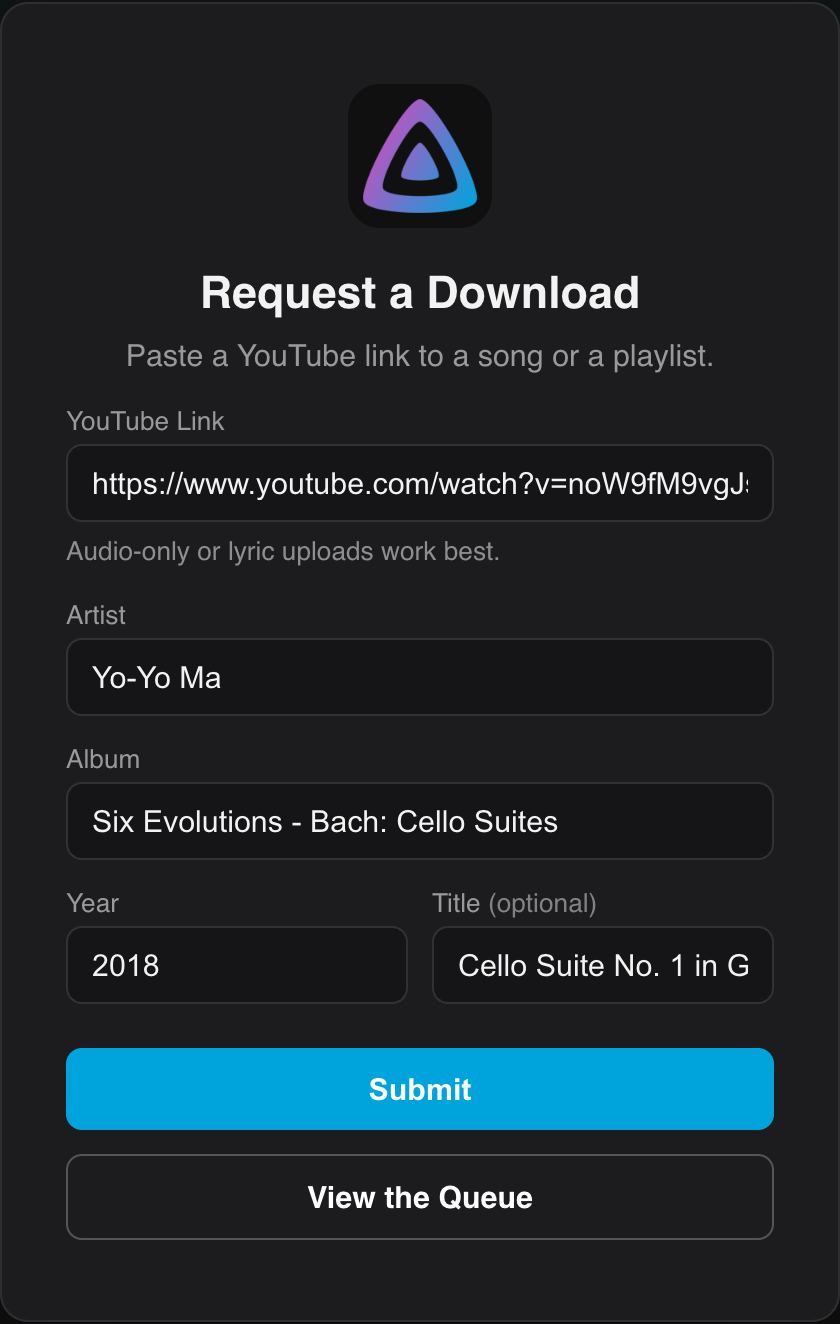
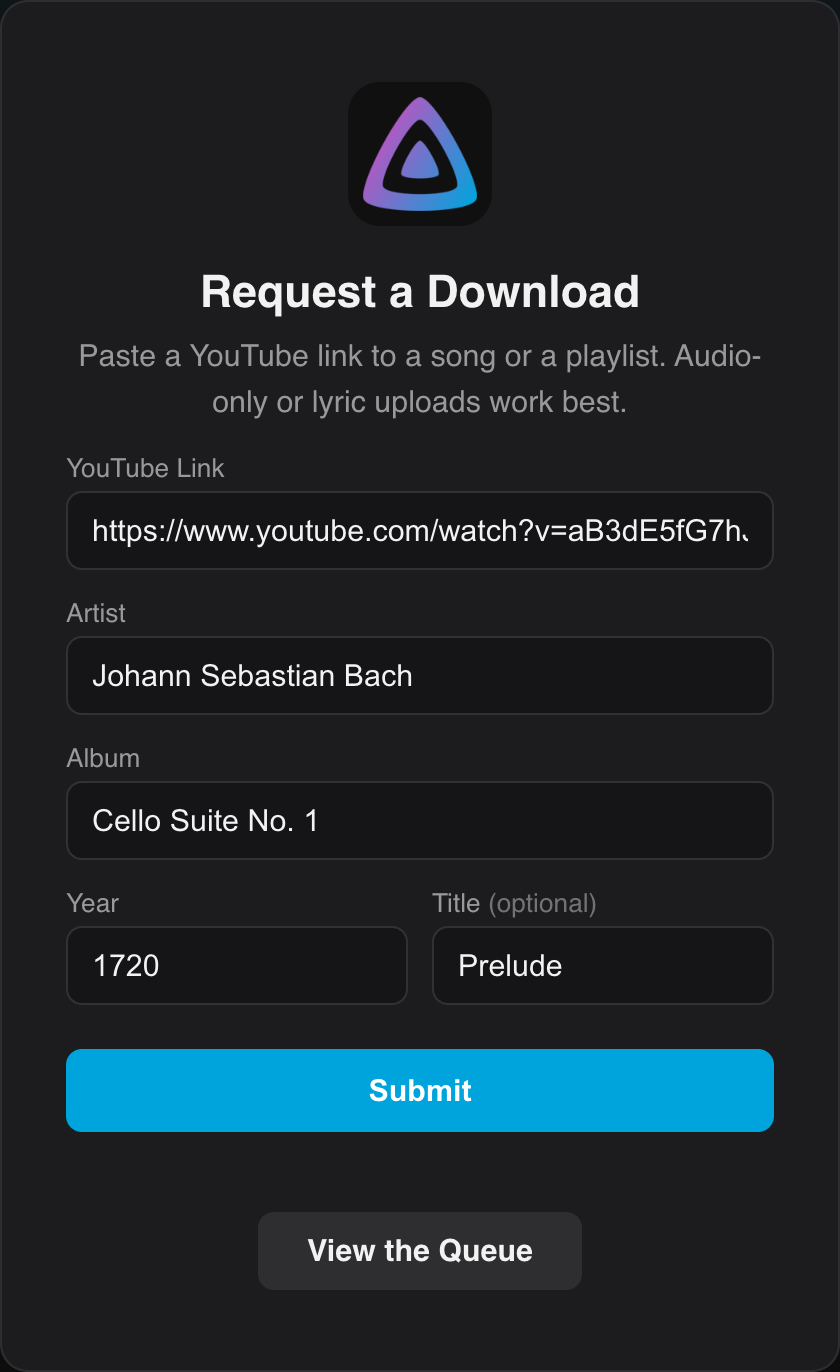
Document the current pages and retake the screenshots

Changed region(s): [[0.0619, 0.0619, 0.9286, 0.8671], [0.0, 0.9909, 0.9905, 1.0], [0.3714, 0.898, 0.65, 0.929]]

diff --git a/docs/Download.md b/docs/Download.md
@@ -6,32 +6,42 @@ Queue up audio for download.
 
 ## Queue a YouTube Link
 
-1. Paste a YouTube video or playlist URL into the input field.
-2. Click **Queue** to add it to the download queue.
-3. From the queue, select the items you want to download and click **Download**, or remove any you do not want with **Delete**. The count cards above the queue show how many items have each status, and selecting a card shows only those items.
+1. Choose **YouTube** on the Download tab.
+2. Paste a video or playlist link into **YouTube URL**.
+3. Click **Queue** to add it to the queue. A playlist link adds each of its videos.
 
 Only `youtube.com`, `www.youtube.com`, `m.youtube.com`, `music.youtube.com` and `youtu.be` links are accepted, and a link containing spaces or quotes is refused.
 
+## The Queue
+
+The **Queue** under the source cards lists every song that is not yet imported. Each song is a card with a music note, its title, and a second line with its source and YouTube link. A playlist track shows its artist before the title, and "YouTube match is found when downloaded" until its upload is matched. Its status badge and the **Change Link** button sit at the top right of the card.
+
+* The status cards above the queue are **Queued**, **Downloading**, **Downloaded** and **Error**, each with its count. Click a card to show only songs with that status, and click it again to show them all. Several cards can be on at once.
+* **Search queue** finds songs by title, artist or link.
+* Select songs with their checkboxes, or with **Select all**, then click **Download** to download them or **Delete** to remove them. A failed song downloads again when you select it and click **Download**.
+* **Refresh** reads the queue again. The queue also refreshes every few seconds while songs download.
+* A failed song shows its reason in red on its card. A song worth checking shows a **Check Match** badge and a note, and a song that replaces a library single says "Replaces the single in the library when imported."
+
 ## Cancel Downloads
 
-While downloads are running, **Cancel Downloads** appears beside the queue's search. It stops yt-dlp, deletes the partial files of the song it was downloading and puts that song back in the queue. Songs that had not started stay queued, so you can start them again later. Use it, for example, to stop a large playlist so you can run **Update yt-dlp** in [Settings](Settings.md).
+While downloads are running, **Cancel Downloads** appears beside **Search queue**. It stops yt-dlp, deletes the partial files of the song it was downloading and puts that song back in the queue. Songs that had not started stay queued, so you can start them again later. Use it, for example, to stop a large playlist so you can run **Update yt-dlp** in [Settings](Settings.md).
 
 ## Import a Playlist From Another Service
 
-1. Choose **Apple Music** or **Spotify** on the Download tab, then export:
-    * **Apple Music:** for one playlist, select it and choose **File → Library → Export Playlist…** (Unicode Text or XML). For your whole library, choose **File → Library → Export Library…**, which lets you pick any of your playlists, or the entire library, in the next step.
-    * **Spotify:** use [Exportify](https://github.com/watsonbox/exportify) to export one playlist as a CSV file, or all of them as a ZIP to pick from in the next step. Playlist names come from the file names. Liked Songs is offered like Apple Music's entire library and does not become a playlist. Spotify's own album cover is embedded, the genre (which Spotify does not export) comes from the Apple Music lookup, and each track's ISRC is used to find its official YouTube upload.
-2. Pick the **Playlist Owner**. Each imported playlist becomes a private Jellyfin playlist with the same name, owned by that user (choose "Do not create playlists" to only download). Then, under **Playlist Export**, choose the file and click **Queue Playlist**. For a library export, turn off any playlists you do not want and click **Queue Selected**. A track in more than one selected playlist is queued once. Every track is added to the queue with its title, artist, album, genre, composer, year and track and disc numbers from the export (and its album artist, from a library or XML export).
+1. Choose **Apple Music** or **Spotify** on the Download tab, then export.
+    * **Apple Music.** For one playlist, select it in the Music app and choose **File > Library > Export Playlist**, as Unicode Text or XML. For your whole library, choose **File > Library > Export Library**, which lets you pick any of your playlists, or the entire library, in the next step.
+    * **Spotify.** Use [Exportify](https://github.com/watsonbox/exportify) to export one playlist as a CSV file, or all of them as a ZIP to pick from in the next step. Playlist names come from the file names. Liked Songs is offered like Apple Music's entire library and does not become a playlist. Spotify's own album cover is embedded, the genre (which Spotify does not export) comes from the Apple Music lookup, and each track's ISRC is used to find its official YouTube upload.
+2. Pick the **Playlist Owner**. Each imported playlist becomes a private Jellyfin playlist with the same name, owned by that user (choose "Do not create playlists" to only download). Then drop the file on **Playlist Export**, or click it to choose the file, and click **Queue Playlist**. For a library export, turn off any playlists you do not want and click **Queue Selected**. A track in more than one selected playlist is queued once. Every track is added to the queue with its title, artist, album, genre, composer, year and track and disc numbers from the export (and its album artist, from a library or XML export).
     * Album names are cleaned so every edition groups as one album. Labels like "(Deluxe Edition)", "(Remastered)", "(Bonus Track Version)", " - Single" and " - EP" are removed, while ones naming a different recording ("Live", "Orchestral Version") are kept. "feat." artists are moved out of titles and tagged as featured artists.
-    * Nothing is queued twice. Songs already in any of your Jellyfin music libraries or the queue are skipped, and the playlist uses your existing copy. Classical movements count when one side names only the movement: an export's "Suite bergamasque, L. 75: III. Clair de lune" uses your "Clair de lune" by the same artist, and the other way round, as long as the lengths agree and the movement isn't just a tempo like "Allegro". A song appearing more than once keeps its best version (album, then compilation, then EP, then single). If your library only has a song's single and the import brings its album version, the album version is queued and the single's file is deleted once it is imported.
+    * Nothing is queued twice. Songs already in any of your Jellyfin music libraries or the queue are skipped, and the playlist uses your existing copy. Classical movements count when one side names only the movement. An export's "Suite bergamasque, L. 75: III. Clair de lune" uses your "Clair de lune" by the same artist, and the other way round, as long as the lengths agree and the movement is not just a tempo like "Allegro". A song appearing more than once keeps its best version (album, then compilation, then EP, then single). If your library only has a song's single and the import brings its album version, the album version is queued and the single's file is deleted once it is imported.
     * New tracks from an album you already have reuse that album's name and year, so they land in its existing folder.
     * The owner's playlist fills in as songs reach the library. Songs you already have are added straight away, the rest once they are downloaded, imported and scanned. If the owner already has a playlist with that name, only the songs it is missing are added, and its songs are put in the export's order (songs the owner added themselves keep their place). Each import is one time: it finishes once every song is in, or once a song's download fails or is removed. Importing again later simply adds what is new and reorders.
-    * **Playlist Imports in Progress** lists each playlist being filled, with how many of its songs are in so far. **Add Library Songs** adds songs that are already in the library without waiting for a scan, and the stop button on a playlist stops filling it while keeping the Jellyfin playlist and its songs.
+    * **Playlist Imports in Progress** lists each playlist being filled, with its owner, how many of its songs are in so far, and how many still wait for download or import. **Add Library Songs** adds songs that are already in the library without waiting for a scan. **Stop**, the button on a playlist's card, stops filling it and keeps the Jellyfin playlist and its songs.
 3. Download as usual. Each track is matched to a YouTube upload when it downloads, preferring the artist's own channel and an upload close to the track's length. When the regular search only finds music videos of the wrong length (or nothing), YouTube Music's song results are checked too, under the same rules. An upload from another channel is only accepted when its title names the artist, so another performer's recording of the same piece is not picked. For long classical titles ("Suite bergamasque, L. 75: III. Clair de lune"), the movement name is enough to match. A match worth checking (a length difference over 3 seconds, or an upload not from the artist) is marked **Check Match** on its queue row with a note, and a track with no acceptable upload is marked as an error.
-4. To fix a wrong or failed match, click the link button (**Change Link**) in the top corner of its queue row, paste the right YouTube link and click **Use Link**. The track downloads again from that link and keeps its title, artist, album and other details, and its place in any playlist import.
+4. To fix a wrong or failed match, click **Change Link**, the link button at the top right of its card. Paste the right YouTube link into **YouTube URL** and click **Use Link**. The track downloads again from that link and keeps its title, artist, album and other details, and its place in any playlist import. **Change Link** is greyed out while the song downloads.
 
 ## Replace a Song Already in Your Library
 
-If a song reached your library with the wrong audio, choose **Replace a Song** on the Download tab, search for the song under **Library Song** and click it, paste the right YouTube link and click **Queue Replacement**. The new audio downloads with the song's own tags and cover, and importing it from the [Import](Import.md) tab overwrites the song's file in place, so it keeps its place in the library and in playlists.
+If a song reached your library with the wrong audio, choose **Replace a Song** on the Download tab, search for the song under **Library Song** and select it, paste the right YouTube link into **YouTube URL** and click **Queue Replacement**. The new audio downloads with the song's own tags and cover, and importing it from the [Import](Import.md) tab overwrites the song's file in place, so it keeps its place in the library and in playlists.
 
 Next: [Import](Import.md).

diff --git a/docs/Settings.md b/docs/Settings.md
@@ -4,9 +4,11 @@ Configure the plugin before your first download.
 
 ![Settings](screenshots/Settings.png)
 
+Each section opens with a click on its title and saves on its own. The full width **Save** at the end of a section saves only that section. The line above it says when the section has unsaved changes, and whether the save worked.
+
 ## Music Library
 
-Select your target Jellyfin music library and confirm the library path. This is the directory where imported files will be placed. Files are organized as:
+Choose your Jellyfin music library under **Target Library**. **Library Path** fills in with that library's first folder, and you can change it. Imported files are placed in this folder, organized as follows.
 
 ```
 <library path>/Artist/Album (Year)/Song.ext
@@ -17,7 +19,7 @@ Select your target Jellyfin music library and confirm the library path. This is 
 
 ## Audio Format
 
-Choose your preferred download format:
+Choose the format songs download as under **Download Format**.
 
 | Format | Notes |
 | :--- | :--- |
@@ -36,25 +38,39 @@ Choose your preferred download format:
 
 By default, downloaded files are cached in the Jellyfin data directory. Override this if you need a specific staging location.
 
+## Album Art
+
+These settings shape the cover the wand on the [Import](Import.md) tab generates for an album with no art.
+
+* The text list sets which lines the cover shows, top to bottom. Turn **Album Name**, **Artist Name** and **Year** on or off, and move a line up or down with the arrows beside it. Only **Album Name** is on by default.
+* **Colors From** sets what the colors are drawn from, **Album**, **Album and year**, or **Album artist and year**. The same values always give the same colors.
+
 ## Approved Users
 
-By default, only users with access to the Admin Dashboard can download and import tracks. Enabling a user here allows select users to download tracks into your queue from the Download page at `/YouTube/Download`, which you can then approve and import into your library. They cannot import themselves. See [Approved User Downloads](ApprovedUserDownloads.md). Any signed in user can follow the queue at `/YouTube/Queue`, as described in [Public Queue](PublicQueue.md).
+By default, only users with access to the Admin Dashboard can download and import tracks. Turn on a user here to let them queue downloads into your queue from the user page, which you can then import into your library. They cannot import themselves. Administrators are not listed, since they can always use the page. See [Approved User Downloads](ApprovedUserDownloads.md).
+
+The Settings tab shows no links to the user pages. Share their addresses yourself. Each is your server address followed by its path.
+
+| Page | Address | Who can use it |
+| :--- | :--- | :--- |
+| User page | `https://jellyfin.example.com/YouTube/Download` | Approved users and administrators |
+| [Public Queue](PublicQueue.md) | `https://jellyfin.example.com/YouTube/Queue` | Any signed in user |
 
 **Playlist Limit** caps how many videos an approved user can queue from one playlist link (200 by default). A larger playlist is refused with a message asking them to have an administrator add it. Set it to 0 for no limit. Administrators are never limited.
 
 ## yt-dlp
 
-The plugin downloads [yt-dlp](https://github.com/yt-dlp/yt-dlp) and the [Deno](https://deno.com) JavaScript runtime that yt-dlp needs for YouTube into the plugin folder the first time they are needed, from their official GitHub releases. Both are kept up to date: every 12 hours, before a download starts, the plugin checks for newer releases and replaces its own copies. Every file is checked against the SHA-256 checksum published with its release (yt-dlp's `SHA2-256SUMS`, Deno's `.sha256sum`) before it is made executable; a file that does not match is deleted and never run, and the error says so.
+The plugin downloads [yt-dlp](https://github.com/yt-dlp/yt-dlp) and the [Deno](https://deno.com) JavaScript runtime that yt-dlp needs for YouTube into the plugin folder the first time they are needed, from their official GitHub releases. Both are kept up to date. Every 12 hours, before a download starts, the plugin checks for newer releases and replaces its own copies. Every file is checked against the SHA-256 checksum published with its release before it is made executable, `SHA2-256SUMS` for yt-dlp and `.sha256sum` for Deno. A file that does not match is deleted and never run, and the error says so.
 
 * **yt-dlp Path Override.** Set an absolute path (for example `/opt/homebrew/bin/yt-dlp`) to use your own yt-dlp instead. The plugin then never downloads or replaces yt-dlp, and **Update yt-dlp** runs that binary's own updater (`yt-dlp -U`). A system yt-dlp is otherwise only used when the plugin's own copy cannot be downloaded. A Deno installed on the system is used when the plugin has no copy of its own, and is never updated by the plugin.
-* **Update yt-dlp.** Updates yt-dlp and the plugin's Deno right away instead of waiting for the next check. It waits for running downloads; cancel them on the [Download](Download.md) tab to update now.
+* **Update yt-dlp.** Updates yt-dlp and the plugin's Deno right away instead of waiting for the next check. It sits above the section's **Save**, and its result shows on the line above **Save**. It waits for running downloads, so cancel them on the [Download](Download.md) tab to update now.
 
 ## Reset
 
-Both actions stop any running downloads first and cannot be undone.
+Both actions stop any running downloads first and cannot be undone. Each asks you to confirm first.
 
-* **Reset Queue** clears the download queue and deletes the cached files of every queued, failed and downloaded item that has not been imported.
-* **Reset Cache** deletes every file in the download cache and clears the download queue.
+* **Reset Queue**, with its **Reset** button, clears the download queue and deletes the cached files of every queued, failed and downloaded item that has not been imported.
+* **Reset Cache**, with its **Reset All** button, deletes every file in the download cache and clears the download queue.
 
 Files left in the cache by an interrupted download (for example when the server stopped mid-download) are removed automatically the next time the server starts, and songs that were downloading go back to the queue.
 

diff --git a/skills/glossary.md b/skills/glossary.md
@@ -24,7 +24,8 @@ The agreed name for every concept in this plugin. The UI, the docs, messages, an
 | Term | Meaning | In Code | Not |
 | :--- | :--- | :--- | :--- |
 | Queue | The songs waiting to download, downloading, downloaded, or failed, on the **Download** tab | `QueueDatabase` | List, backlog |
-| Queue item | One song in the queue | `QueueItem` | Job, task, entry |
+| Queue item | One song in the queue, drawn as a media card with its status and **Change Link** | `QueueItem`, `renderQueueRow` | Job, task, entry |
+| Status cards | The cards above the queue, one per status with its count, that each show only songs with that status | `QUEUE_STATES` | Count cards, tiles, filters |
 | Download | Turns a queued song into an audio file in the download cache with yt-dlp | `DownloadService` | Fetch, rip |
 | Match | The YouTube upload a playlist track downloads from, found when it downloads | `YouTubeMatcher` | Hit, result |
 | Check Match | The badge on a queue item whose match is worth a look, with its note | `MatchNote` | Warning, low confidence |
@@ -42,6 +43,15 @@ The agreed name for every concept in this plugin. The UI, the docs, messages, an
 | Imported | Filed in the library, and shown on neither tab | `QueueStatus.Imported` |
 | Error | Failed, with the reason on the row | `QueueStatus.Error` |
 
+The [Public Queue](../docs/PublicQueue.md) names each status for any signed in user. Its pills read **Waiting**, **Downloading**, **Downloaded**, and **Failed**.
+
+| Status | Public Queue badge | In Code |
+| :--- | :--- | :--- |
+| Queued | Waiting to download | `DownloadService.GetPublicQueue` |
+| Downloading | Downloading | `DownloadService.GetPublicQueue` |
+| Downloaded | Downloaded, not yet added | `DownloadService.GetPublicQueue` |
+| Error | Could not be downloaded | `DownloadService.GetPublicQueue` |
+
 ## Importing
 
 | Term | Meaning | In Code | Not |
@@ -53,6 +63,7 @@ The agreed name for every concept in this plugin. The UI, the docs, messages, an
 | Featured Artists | Artists credited with "feat." on a song | `FeaturedArtist` | Feat. Artists, guests |
 | Cover | The picture embedded in a file | `HasCover`, `Downloads/{id}/Cover` | Artwork, thumbnail. **Album Art** names the Settings section for generated covers |
 | Generate Cover | The wand that draws a cover from the album's text and colors | | Auto cover, placeholder art |
+| Set Cover | The button under a file's cover that picks a picture, reading **Replace** once the file has one | `createCoverPicker` | Upload art, change image |
 | In Library | The badge on a downloaded file whose song the library already has | `InLibrary` | Duplicate, exists |
 | Duplicate | A file whose name an import would reuse in the library | `ReplaceDuplicates` | Clash, conflict |
 | Catalog lookup | Fills a song's details from Apple's public catalog | `AppleCatalogClient`, `CatalogMatcher` | Metadata provider, scrape |
@@ -72,6 +83,7 @@ The agreed name for every concept in this plugin. The UI, the docs, messages, an
 | Target Library | The music library imports are filed into | `MusicLibraryId` | Destination library |
 | Library Path | The folder in that library imports are filed under | `MusicLibraryPath` | Root, output folder |
 | Download Format | Opus, MP3, or M4A | `AudioFormat` | Codec, file type |
+| Album Art | The Settings section that sets a generated cover's text lines and **Colors From** | `GeneratedCoverText`, `GeneratedCoverTextOrder`, `GeneratedCoverColors` | Cover settings |
 | Download cache | The folder downloaded files wait in until they are imported | `QueueDatabaseProvider.GetAudioCacheDirectory` | Staging, temp |
 | Cache Directory Override | A folder for the download cache instead of the Jellyfin data folder | `CacheDirectoryOverride` | Cache path |
 | Approved users | Users who may queue downloads from the user page, set in the Approved Users section of Settings | `ApprovedUserIds` | Allowed users, whitelist |
@@ -81,6 +93,7 @@ The agreed name for every concept in this plugin. The UI, the docs, messages, an
 | yt-dlp | The downloader the plugin fetches and keeps up to date | `ToolDownloads`, `YtDlpRunner` | youtube-dl, the tool |
 | Deno | The JavaScript runtime yt-dlp needs for YouTube | `ToolDownloads` | Node |
 | yt-dlp Path Override | The user's own yt-dlp, used instead of the plugin's copy | `YtDlpPath` | Custom binary |
+| Update yt-dlp | Updates yt-dlp and Deno now instead of at the next check | `POST UpdateYtDlp` | Upgrade, refresh tools |
 
 ## Housekeeping
 

diff --git a/docs/Import.md b/docs/Import.md
@@ -6,12 +6,18 @@ Tag your downloaded files and bring them into your library.
 
 ## Tag and Import
 
-1. Each downloaded file has its own panel. Its header shows the title, the file size, and the save and wand buttons, and the cover sits beside the fields for title, track, artist, album artist, featured artists, album, genre, and year. Songs your library already has are marked **In Library** in the header, so you can skip a second copy.
-2. To apply the same metadata to multiple files at once, fill in the bulk fields at the top and click **Apply to Selected**.
-3. To listen to a file before you tag it, click the play button across the bottom of its panel. The seek bar and the time sit beside it, and starting one file pauses any other.
-4. To add or replace cover art, click **Set Cover** or **Replace** under a file's cover, or drop a picture on it. To give several files the same cover, choose it under **Cover** in Bulk Updates, select the files, and click **Set Cover on Selected**. Pictures are cropped to a centered square of at most 1200 pixels. Choosing an album your library already has takes that album's cover. For an album with no art, click the wand in the panel's header to generate a cover. It is a soft blend of three colors drawn from the album name, with the name in the middle.
-5. Save each file's changes with the save button in its header before you import. The button turns orange while a file has unsaved changes.
-6. Select the files you want to import and click **Import**.
+1. Each downloaded file has its own panel.
+    * The header holds the file's checkbox and title, then its size, an **In Library** badge when your library already has the song, the wand that generates a cover, and the save button.
+    * The cover sits at the left, with **Set Cover**, or **Replace** once the file has a cover, under it.
+    * The fields sit beside the cover in three rows. **Title** and **Track**, then **Artist**, **Album Artist** and **Featured Artists**, then **Album**, **Genre** and **Year**. **Artist** and **Album** suggest names already in your library as you type.
+    * The player runs across the full width at the bottom of the panel.
+    * On a tablet the cover moves above the fields, and on a phone each field takes its own line.
+2. To listen to a file before you tag it, click the play button in its player. The seek bar and the time sit beside it, and starting one file pauses any other.
+3. To apply the same details to several files at once, fill in the fields under **Bulk Updates**, select the files, and click **Apply to Selected**.
+4. To add or replace a file's cover, click **Set Cover** or **Replace** under it, or drop a picture on it. A cover can be replaced but not removed. To give several files the same cover, choose it under **Cover** in **Bulk Updates**, select the files, and click **Set Cover on Selected**. Pictures are cropped to a centered square of at most 1200 pixels. Choosing an album your library already has takes that album's cover.
+5. For an album with no art, click the wand in the panel's header to generate a cover. It is a soft blend of three colors drawn from the album name, with the name in the middle. **Album Art** in [Settings](Settings.md#album-art) sets which text it shows and what its colors are drawn from.
+6. Save each file's changes with the save button in its header before you import. The button turns orange while a file has unsaved changes.
+7. Select the files you want to import, with their checkboxes or **Select all**, and click **Import**. **Delete** deletes the selected files from the download cache after you confirm, and **Refresh** reads the list again.
 
 ## Where Files Go
 

diff --git a/docs/ApprovedUserDownloads.md b/docs/ApprovedUserDownloads.md
@@ -6,10 +6,15 @@ Let trusted users queue downloads without giving them admin access.
 
 You can allow specific Jellyfin users to submit download links from a simple page, without access to the plugin's admin tabs or the import step.
 
-1. In [Settings](Settings.md), open the **Approved Users** section, select the users you want to allow, and click **Save**.
-2. Share the user page with them. It is at `/YouTube/Download` after your server address, such as `https://jellyfin.example.com/YouTube/Download`. Approved users sign in to Jellyfin first, and administrators can always use it.
-3. They paste a YouTube link, fill in artist, album, year, and title, and submit it. Artist and album suggest names already in your library as they type. The download then runs on the server and lands in your queue. **View the Queue** opens the [Public Queue](PublicQueue.md).
+1. In [Settings](Settings.md#approved-users), open the **Approved Users** section, turn on the users you want to allow, and click **Save**.
+2. Share the user page with them. The Settings tab shows no link to it. It is at `/YouTube/Download` after your server address, such as `https://jellyfin.example.com/YouTube/Download`. Approved users sign in to Jellyfin first, and administrators can always use it.
+3. On **Request a Download**, they paste a link into **YouTube Link** and fill in **Artist**, **Album** and **Year**. **Artist** and **Album** suggest names already in your library as they type. **Title** is optional and comes from the video when it is empty. A playlist link turns **Title** off, since each video keeps its own title.
+4. They click **Submit**. The download starts on the server and the song lands in your queue, ready to import.
 
-A playlist link queues each of its videos, up to the **Playlist Limit** set in [Settings](Settings.md) (200 by default). A larger playlist is refused rather than cut short, so the user can ask an administrator to add it.
+The line under **Submit** says what happened. "Queued 1 track for download." confirms a request. A problem shows in red on the same line, such as "Add the YouTube link, artist, album and year." when a field is empty, or the server's reason when it refuses the link.
 
-Approved users can only submit links. They cannot import into the library, and they never see the admin tabs. The page is reachable by its URL, but the submit endpoint checks approval against the signed in Jellyfin account on the server, so an unapproved or signed out visitor cannot queue anything.
+**View the Queue**, the secondary button at the bottom of the page, opens the [Public Queue](PublicQueue.md).
+
+A playlist link queues each of its videos, up to the **Playlist Limit** set in [Settings](Settings.md#approved-users) (200 by default). A larger playlist is refused rather than cut short, so the user can ask an administrator to add it.
+
+Approved users can only submit links. They cannot import into the library, and they never see the admin tabs. The page is reachable by its address, but the submit endpoint checks approval against the signed in Jellyfin account on the server, so an unapproved or signed out visitor cannot queue anything. A visitor who is not signed in sees **Sign in required** with a **Sign in** button, and a signed in user who is not approved sees **Not authorized** with **Back to Jellyfin**.

diff --git a/docs/PublicQueue.md b/docs/PublicQueue.md
@@ -1,9 +1,15 @@
 # Public Queue
 
-Let anyone signed in see what's coming.
+Let anyone signed in see what is coming.
 
 ![Public Queue](screenshots/Queue.png)
 
-The Public Queue is at `/YouTube/Queue` after your server address, such as `https://jellyfin.example.com/YouTube/Queue`. Any signed in Jellyfin user can open it, approved or not, to see what is waiting, downloading, downloaded or failed, refreshed every 10 seconds. The pills above the list show one status at a time, each with its count. It is read only and shows titles, artists and albums only: no links, file names or error details.
+The Public Queue is at `/YouTube/Queue` after your server address, such as `https://jellyfin.example.com/YouTube/Queue`. The Settings tab shows no link to it, so share the address yourself. Any signed in Jellyfin user can open it, approved or not, to see what is waiting, downloading, downloaded or failed.
+
+* The pills above the list are **All**, **Waiting**, **Downloading**, **Downloaded** and **Failed**, each with its count. Click one to show only those songs.
+* Each row shows the song's title, then its artist, album and source, with its status at the right. The statuses read "Waiting to download", "Downloading", "Downloaded, not yet added" and "Could not be downloaded".
+* The list refreshes every 10 seconds, and the line under it shows when it was last updated.
+
+The page is read only and shows titles, artists, albums and sources only. It shows no links, file names or error details. A visitor who is not signed in sees **Sign in required** with a **Sign in** button. When the queue cannot be loaded, the page shows **Queue unavailable** with **Back to Jellyfin**.
 
 Next: [Approved User Downloads](ApprovedUserDownloads.md).
